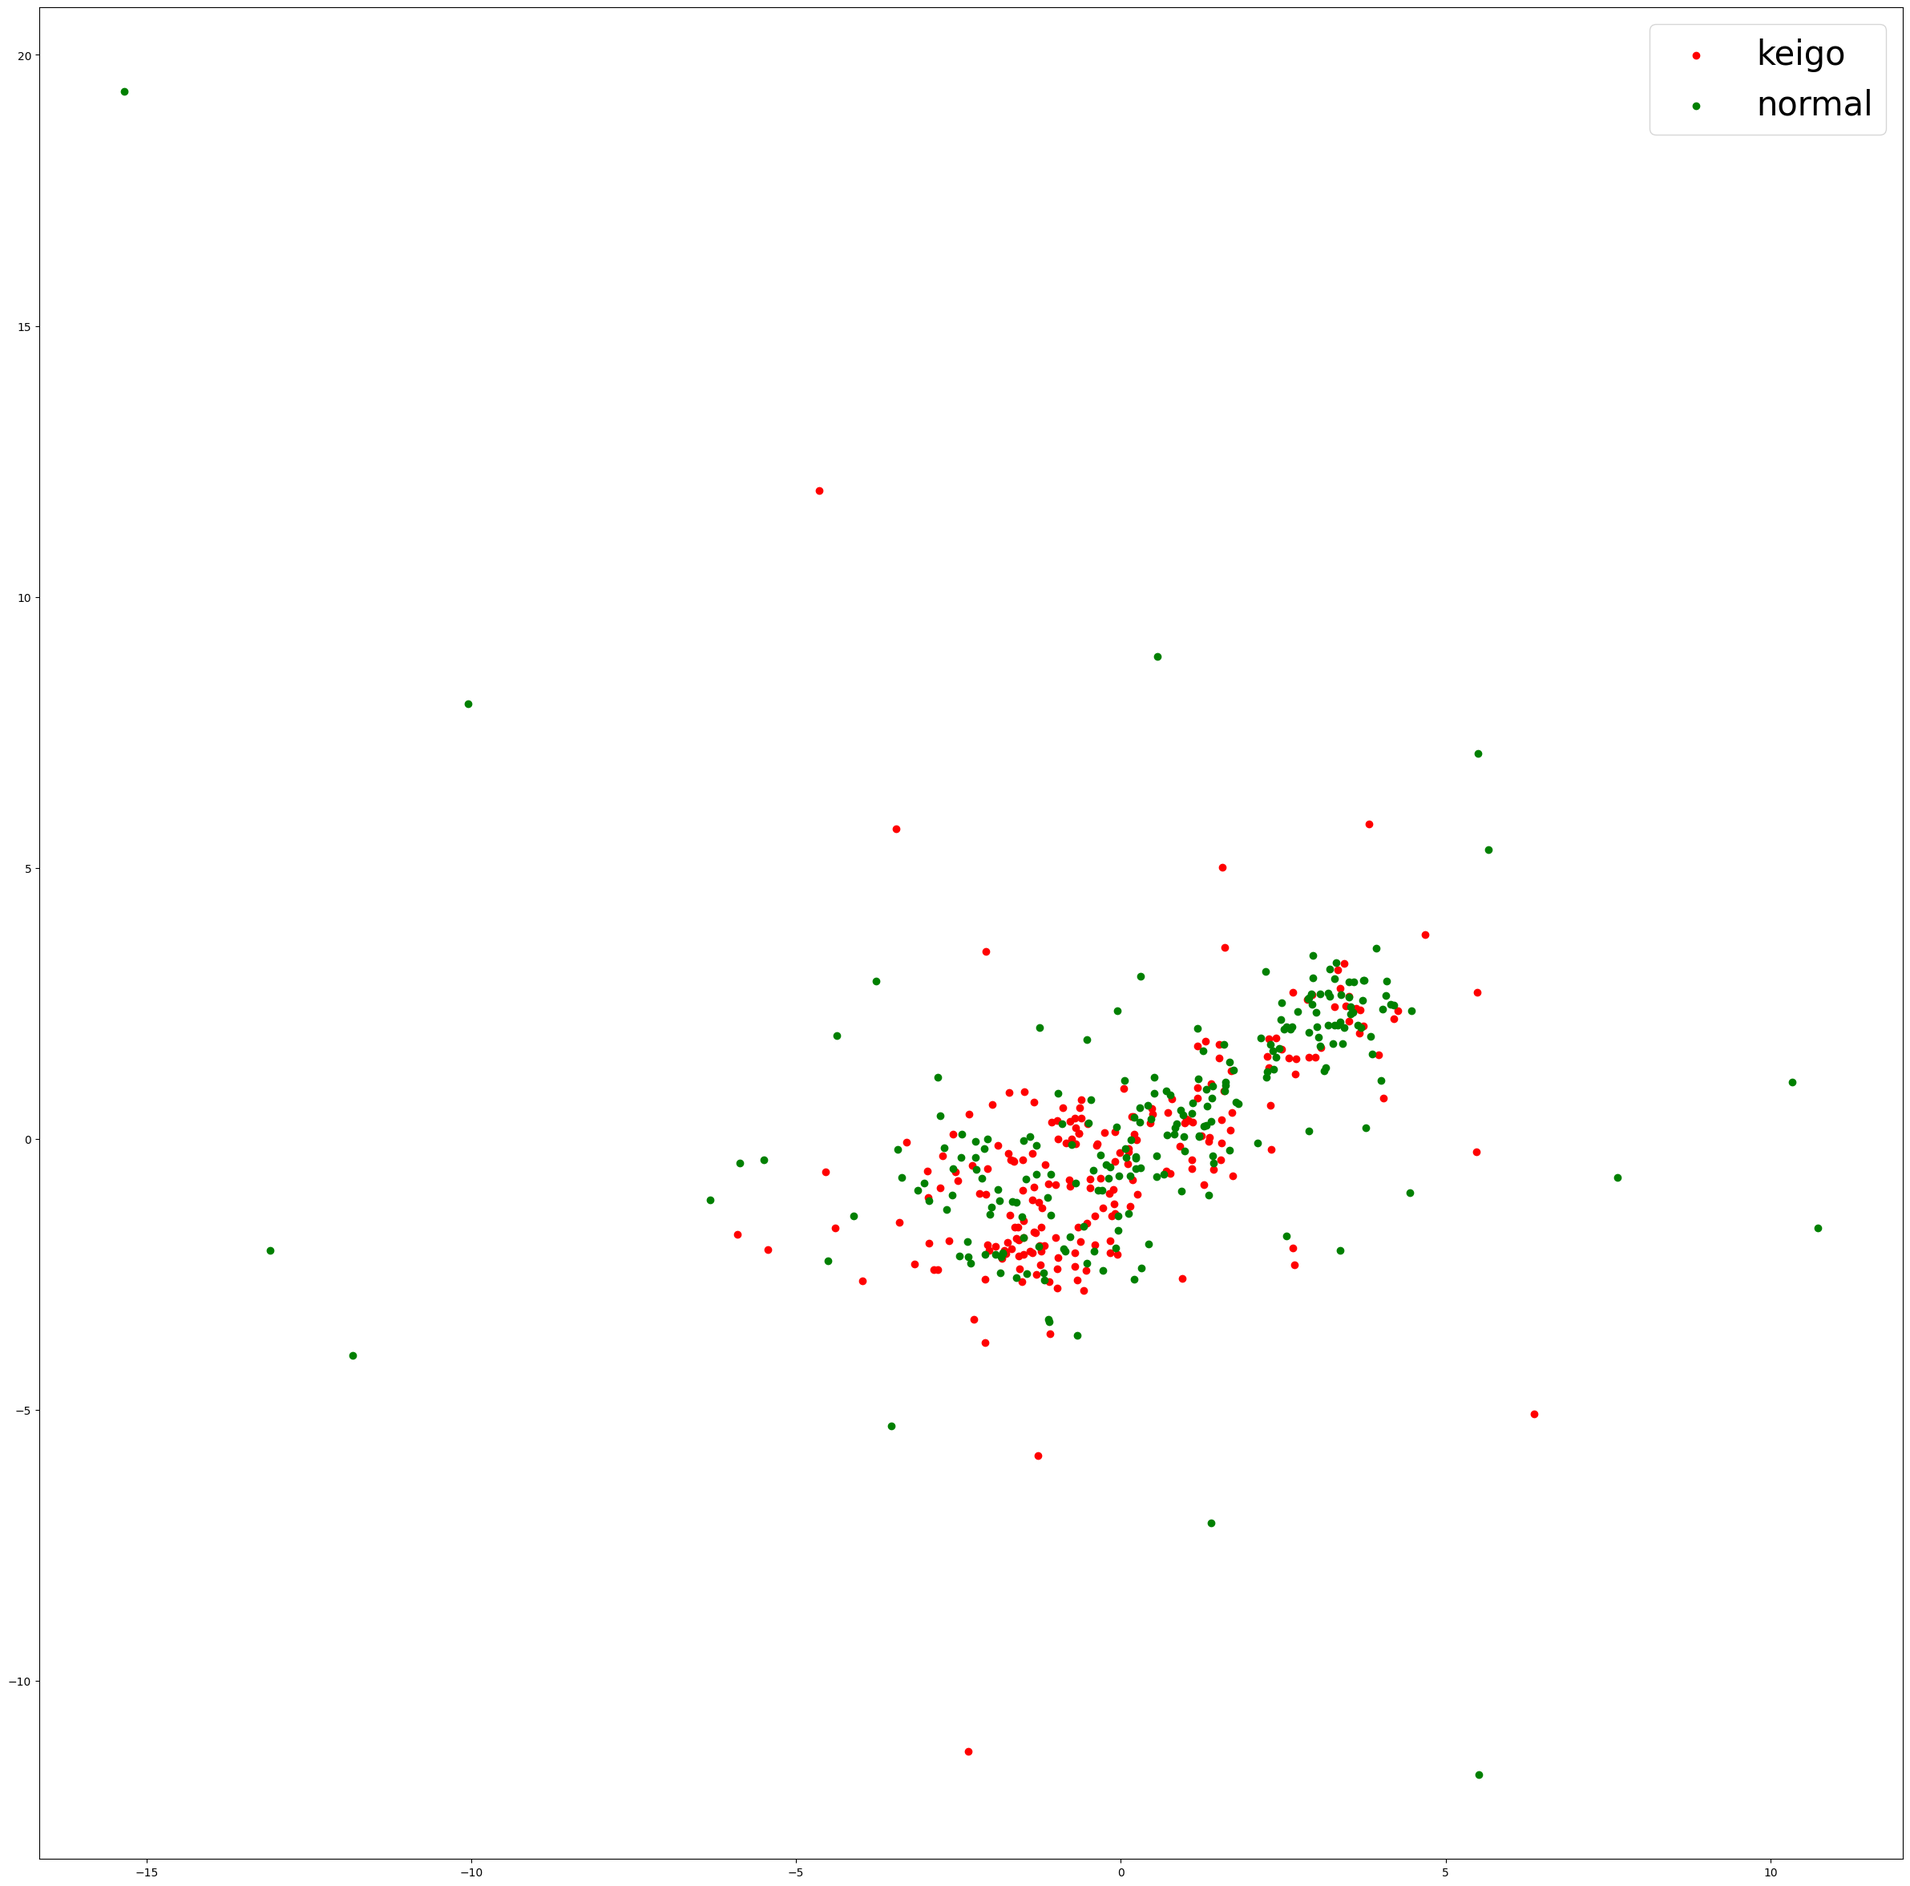
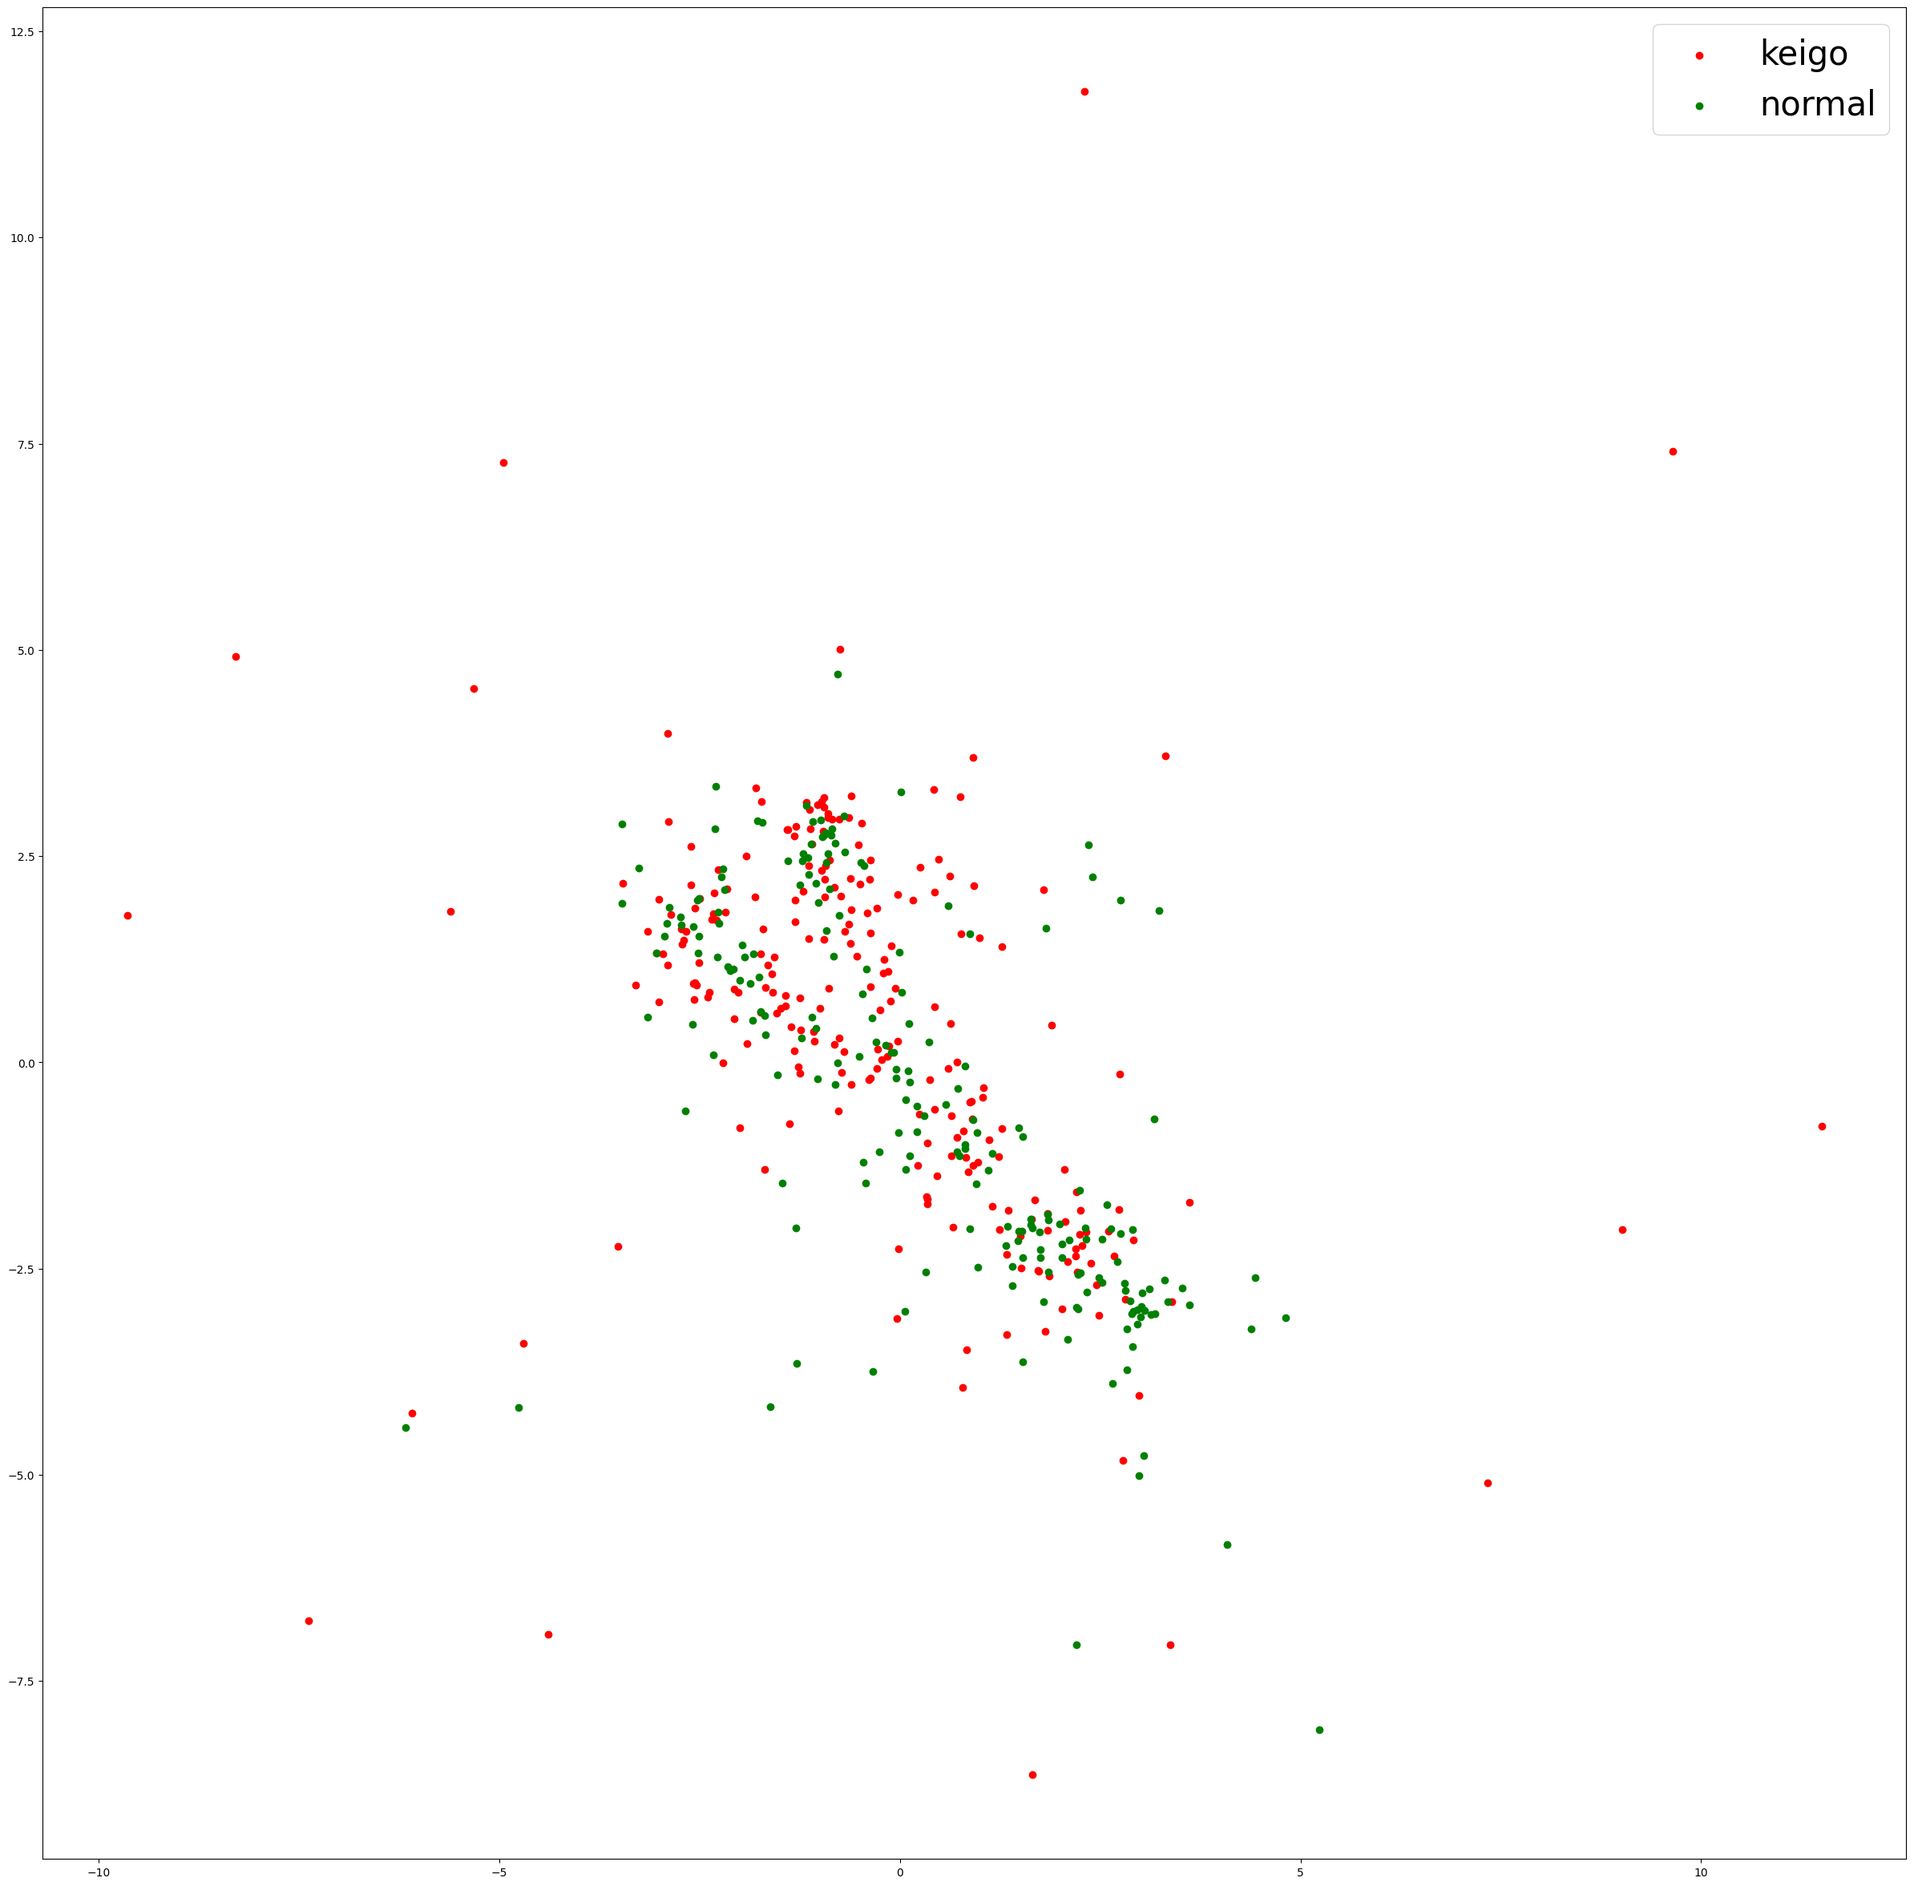
change extraction range

Changed region(s): [[0.3416, 0.4033, 0.7453, 0.7136], [0.9937, 0.0, 1.0, 0.9928], [0.9316, 0.031, 0.9627, 0.062]]

diff --git a/eval_generation.py b/eval_generation.py
@@ -244,9 +244,9 @@ def main():
 
     swap_style(style_vocab, dataset_val, 5)
     
-    swap(dataset_train, dataset_val, dataset_reader, vocab, style_vocab, model, 1000, 1001)
+    swap(dataset_train, dataset_val, dataset_reader, vocab, style_vocab, model, 4000, 4001)
 
-    t_SNE_visualization(dataset_train, dataset_val, dataset_reader, style_vocab, model, 1000, 1450, 'keigo_form_embeddings.png')
+    t_SNE_visualization(dataset_train, dataset_val, dataset_reader, style_vocab, model, 4000, 4450, 'keigo_form_embeddings.png')
 
 
 if __name__ == '__main__':
